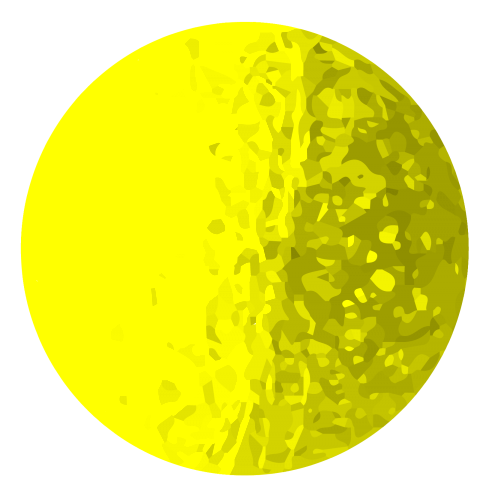
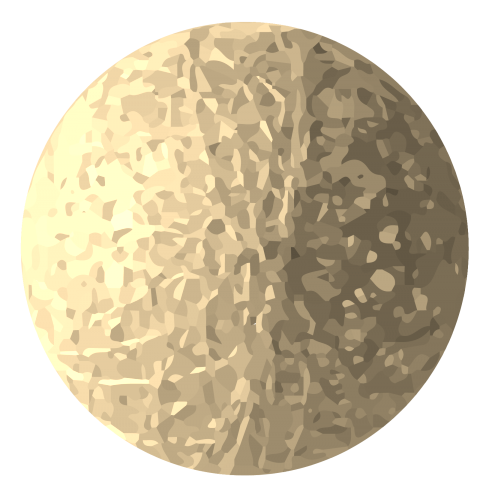
se agrego texturas

diff --git a/Mesa 2019/src/Vista/Imagenes.java b/Mesa 2019/src/Vista/Imagenes.java
@@ -7,9 +7,9 @@ import javax.imageio.ImageIO;
 
 public class Imagenes {
 
-	private BufferedImage[] image=new BufferedImage[63] ;
+	private BufferedImage[] image=new BufferedImage[99] ;
 	private BufferedImage[] imagen_config=new BufferedImage[26];
-	private BufferedImage[] imagen_gomas=new BufferedImage[5];
+	private BufferedImage[] imagen_gomas=new BufferedImage[7];
 	private BufferedImage[] imagen_lapiz=new BufferedImage[6];
 	private BufferedImage fondo;
 	
@@ -21,7 +21,11 @@ public class Imagenes {
 			"src/Imagenes/Objeto0/0-3.png",  
 			"src/Imagenes/Objeto0/0-4.png",  
 			"src/Imagenes/Objeto0/0-5.png",  
-			"src/Imagenes/Objeto0/0-6.png",  
+			"src/Imagenes/Objeto0/0-6.png", 
+			"src/Imagenes/Objeto0/0-7.png",  
+			"src/Imagenes/Objeto0/0-8.png",  
+			"src/Imagenes/Objeto0/0-9.png", 
+			"src/Imagenes/Objeto0/0-10.png", 
 			"src/Imagenes/Objeto1/1-0.png",  //1- Pelota
 			"src/Imagenes/Objeto1/1-1.png",
 			"src/Imagenes/Objeto1/1-2.png",
@@ -29,6 +33,10 @@ public class Imagenes {
 			"src/Imagenes/Objeto1/1-4.png",
 			"src/Imagenes/Objeto1/1-5.png",
 			"src/Imagenes/Objeto1/1-6.png",
+			"src/Imagenes/Objeto1/1-7.png",  
+			"src/Imagenes/Objeto1/1-8.png",  
+			"src/Imagenes/Objeto1/1-9.png", 
+			"src/Imagenes/Objeto1/1-10.png",
 			"src/Imagenes/Objeto2/2-0.png",  //2- Caracol1
 			"src/Imagenes/Objeto2/2-1.png",
 			"src/Imagenes/Objeto2/2-2.png",
@@ -36,6 +44,10 @@ public class Imagenes {
 			"src/Imagenes/Objeto2/2-4.png",
 			"src/Imagenes/Objeto2/2-5.png",
 			"src/Imagenes/Objeto2/2-6.png",
+			"src/Imagenes/Objeto2/2-7.png",  
+			"src/Imagenes/Objeto2/2-8.png",  
+			"src/Imagenes/Objeto2/2-9.png", 
+			"src/Imagenes/Objeto2/2-10.png",
 			"src/Imagenes/Objeto3/3-0.png",  //3- Caracol2
 			"src/Imagenes/Objeto3/3-1.png",
 			"src/Imagenes/Objeto3/3-2.png",
@@ -43,6 +55,10 @@ public class Imagenes {
 			"src/Imagenes/Objeto3/3-4.png",
 			"src/Imagenes/Objeto3/3-5.png",
 			"src/Imagenes/Objeto3/3-6.png",
+			"src/Imagenes/Objeto3/3-7.png",  
+			"src/Imagenes/Objeto3/3-8.png",  
+			"src/Imagenes/Objeto3/3-9.png", 
+			"src/Imagenes/Objeto3/3-10.png",
 			"src/Imagenes/Objeto4/4-0.png",  //4- Caracol3
 			"src/Imagenes/Objeto4/4-1.png",
 			"src/Imagenes/Objeto4/4-2.png",
@@ -50,6 +66,10 @@ public class Imagenes {
 			"src/Imagenes/Objeto4/4-4.png",
 			"src/Imagenes/Objeto4/4-5.png",
 			"src/Imagenes/Objeto4/4-6.png",
+			"src/Imagenes/Objeto4/4-7.png",  
+			"src/Imagenes/Objeto4/4-8.png",  
+			"src/Imagenes/Objeto4/4-9.png", 
+			"src/Imagenes/Objeto4/4-10.png",
 			"src/Imagenes/Objeto5/5-0.png",  //5- Flor rosa
 			"src/Imagenes/Objeto5/5-1.png",
 			"src/Imagenes/Objeto5/5-2.png",
@@ -57,6 +77,10 @@ public class Imagenes {
 			"src/Imagenes/Objeto5/5-4.png",
 			"src/Imagenes/Objeto5/5-5.png",
 			"src/Imagenes/Objeto5/5-6.png",
+			"src/Imagenes/Objeto5/5-7.png",  
+			"src/Imagenes/Objeto5/5-8.png",  
+			"src/Imagenes/Objeto5/5-9.png", 
+			"src/Imagenes/Objeto5/5-10.png",
 			"src/Imagenes/Objeto6/6-0.png",  //6- Flor amarilla
 			"src/Imagenes/Objeto6/6-1.png",
 			"src/Imagenes/Objeto6/6-2.png",
@@ -64,6 +88,10 @@ public class Imagenes {
 			"src/Imagenes/Objeto6/6-4.png",
 			"src/Imagenes/Objeto6/6-5.png",
 			"src/Imagenes/Objeto6/6-6.png",
+			"src/Imagenes/Objeto6/6-7.png",  
+			"src/Imagenes/Objeto6/6-8.png",  
+			"src/Imagenes/Objeto6/6-9.png", 
+			"src/Imagenes/Objeto6/6-10.png",
 			"src/Imagenes/Objeto7/7-0.png",  //7- Flor Naranja
 			"src/Imagenes/Objeto7/7-1.png",
 			"src/Imagenes/Objeto7/7-2.png",
@@ -71,13 +99,21 @@ public class Imagenes {
 			"src/Imagenes/Objeto7/7-4.png",
 			"src/Imagenes/Objeto7/7-5.png",
 			"src/Imagenes/Objeto7/7-6.png",
+			"src/Imagenes/Objeto7/7-7.png",  
+			"src/Imagenes/Objeto7/7-8.png",  
+			"src/Imagenes/Objeto7/7-9.png", 
+			"src/Imagenes/Objeto7/7-10.png",
 			"src/Imagenes/Objeto8/8-0.png",  //8- Flor Blanca
 			"src/Imagenes/Objeto8/8-1.png",
 			"src/Imagenes/Objeto8/8-2.png",
 			"src/Imagenes/Objeto8/8-3.png",
 			"src/Imagenes/Objeto8/8-4.png",
 			"src/Imagenes/Objeto8/8-5.png",
-			"src/Imagenes/Objeto8/8-6.png",};  
+			"src/Imagenes/Objeto8/8-6.png",
+			"src/Imagenes/Objeto8/8-7.png",  
+			"src/Imagenes/Objeto8/8-8.png",  
+			"src/Imagenes/Objeto8/8-9.png", 
+			"src/Imagenes/Objeto8/8-10.png",};  
 	
 	private String [] rutaObjetosConfiguracion= {
 			"src/Imagenes/Zoom/Regla-13.png",  								//0
@@ -108,14 +144,16 @@ public class Imagenes {
 			"src/Imagenes/ColoresTexturas/CirculoGrises.png",};  				//25
 	
 	private String [] rutaGomas= {
-			"src/Imagenes/Goma/cuadradoblanco.png", 	//0
+			"src/Imagenes/Goma/cuadradoblanco.png", 					//0
 			"src/Imagenes/Goma/cuadradorojo.png",						//1
-			"src/Imagenes/Goma/cuadradoazul.png",						//2
-			"src/Imagenes/Goma/cuadradoverde.png",						//3
-			"src/Imagenes/Goma/cuadradoamarillo.png",};					//4
+			"src/Imagenes/Goma/cuadradomagenta.png",					//2
+			"src/Imagenes/Goma/cuadradoazul.png",						//3
+			"src/Imagenes/Goma/cuadradocian.png",						//4
+			"src/Imagenes/Goma/cuadradoverde.png",						//5
+			"src/Imagenes/Goma/cuadradoamarillo.png",};					//6
 	
 	private String [] rutaLapiz= {
-			"src/Imagenes/Lapiz/LapizNegro.png", //0
+			"src/Imagenes/Lapiz/LapizNegro.png", 						//0
 			"src/Imagenes/Lapiz/LapizRojo.png",							//1
 			"src/Imagenes/Lapiz/LapizMagenta.png",						//2
 			"src/Imagenes/Lapiz/LapizAzul.png",							//3

diff --git a/Mesa 2019/src/Vista/Mural.java b/Mesa 2019/src/Vista/Mural.java
@@ -117,7 +117,7 @@ public class Mural extends JPanel {
 						  break;
 					  } 
 					  default:{ //fiduciales
-						  BufferedImage img=imgGral.getImage((int)((info_en_el_tiempo[0]*7)+info_en_el_tiempo[7])) ;
+						  BufferedImage img=imgGral.getImage((int)((info_en_el_tiempo[0]*11)+info_en_el_tiempo[7])) ;
 						  AffineTransform tx = AffineTransform.getRotateInstance(info_en_el_tiempo[6],(info_en_el_tiempo[1]),(info_en_el_tiempo[2]));
 						  g2d.setTransform(tx);
 						  g2d.drawImage(img, (int)info_en_el_tiempo[1], (int)info_en_el_tiempo[2], (int)info_en_el_tiempo[3], (int)info_en_el_tiempo[4], 0, 0, 744, 768, null);
